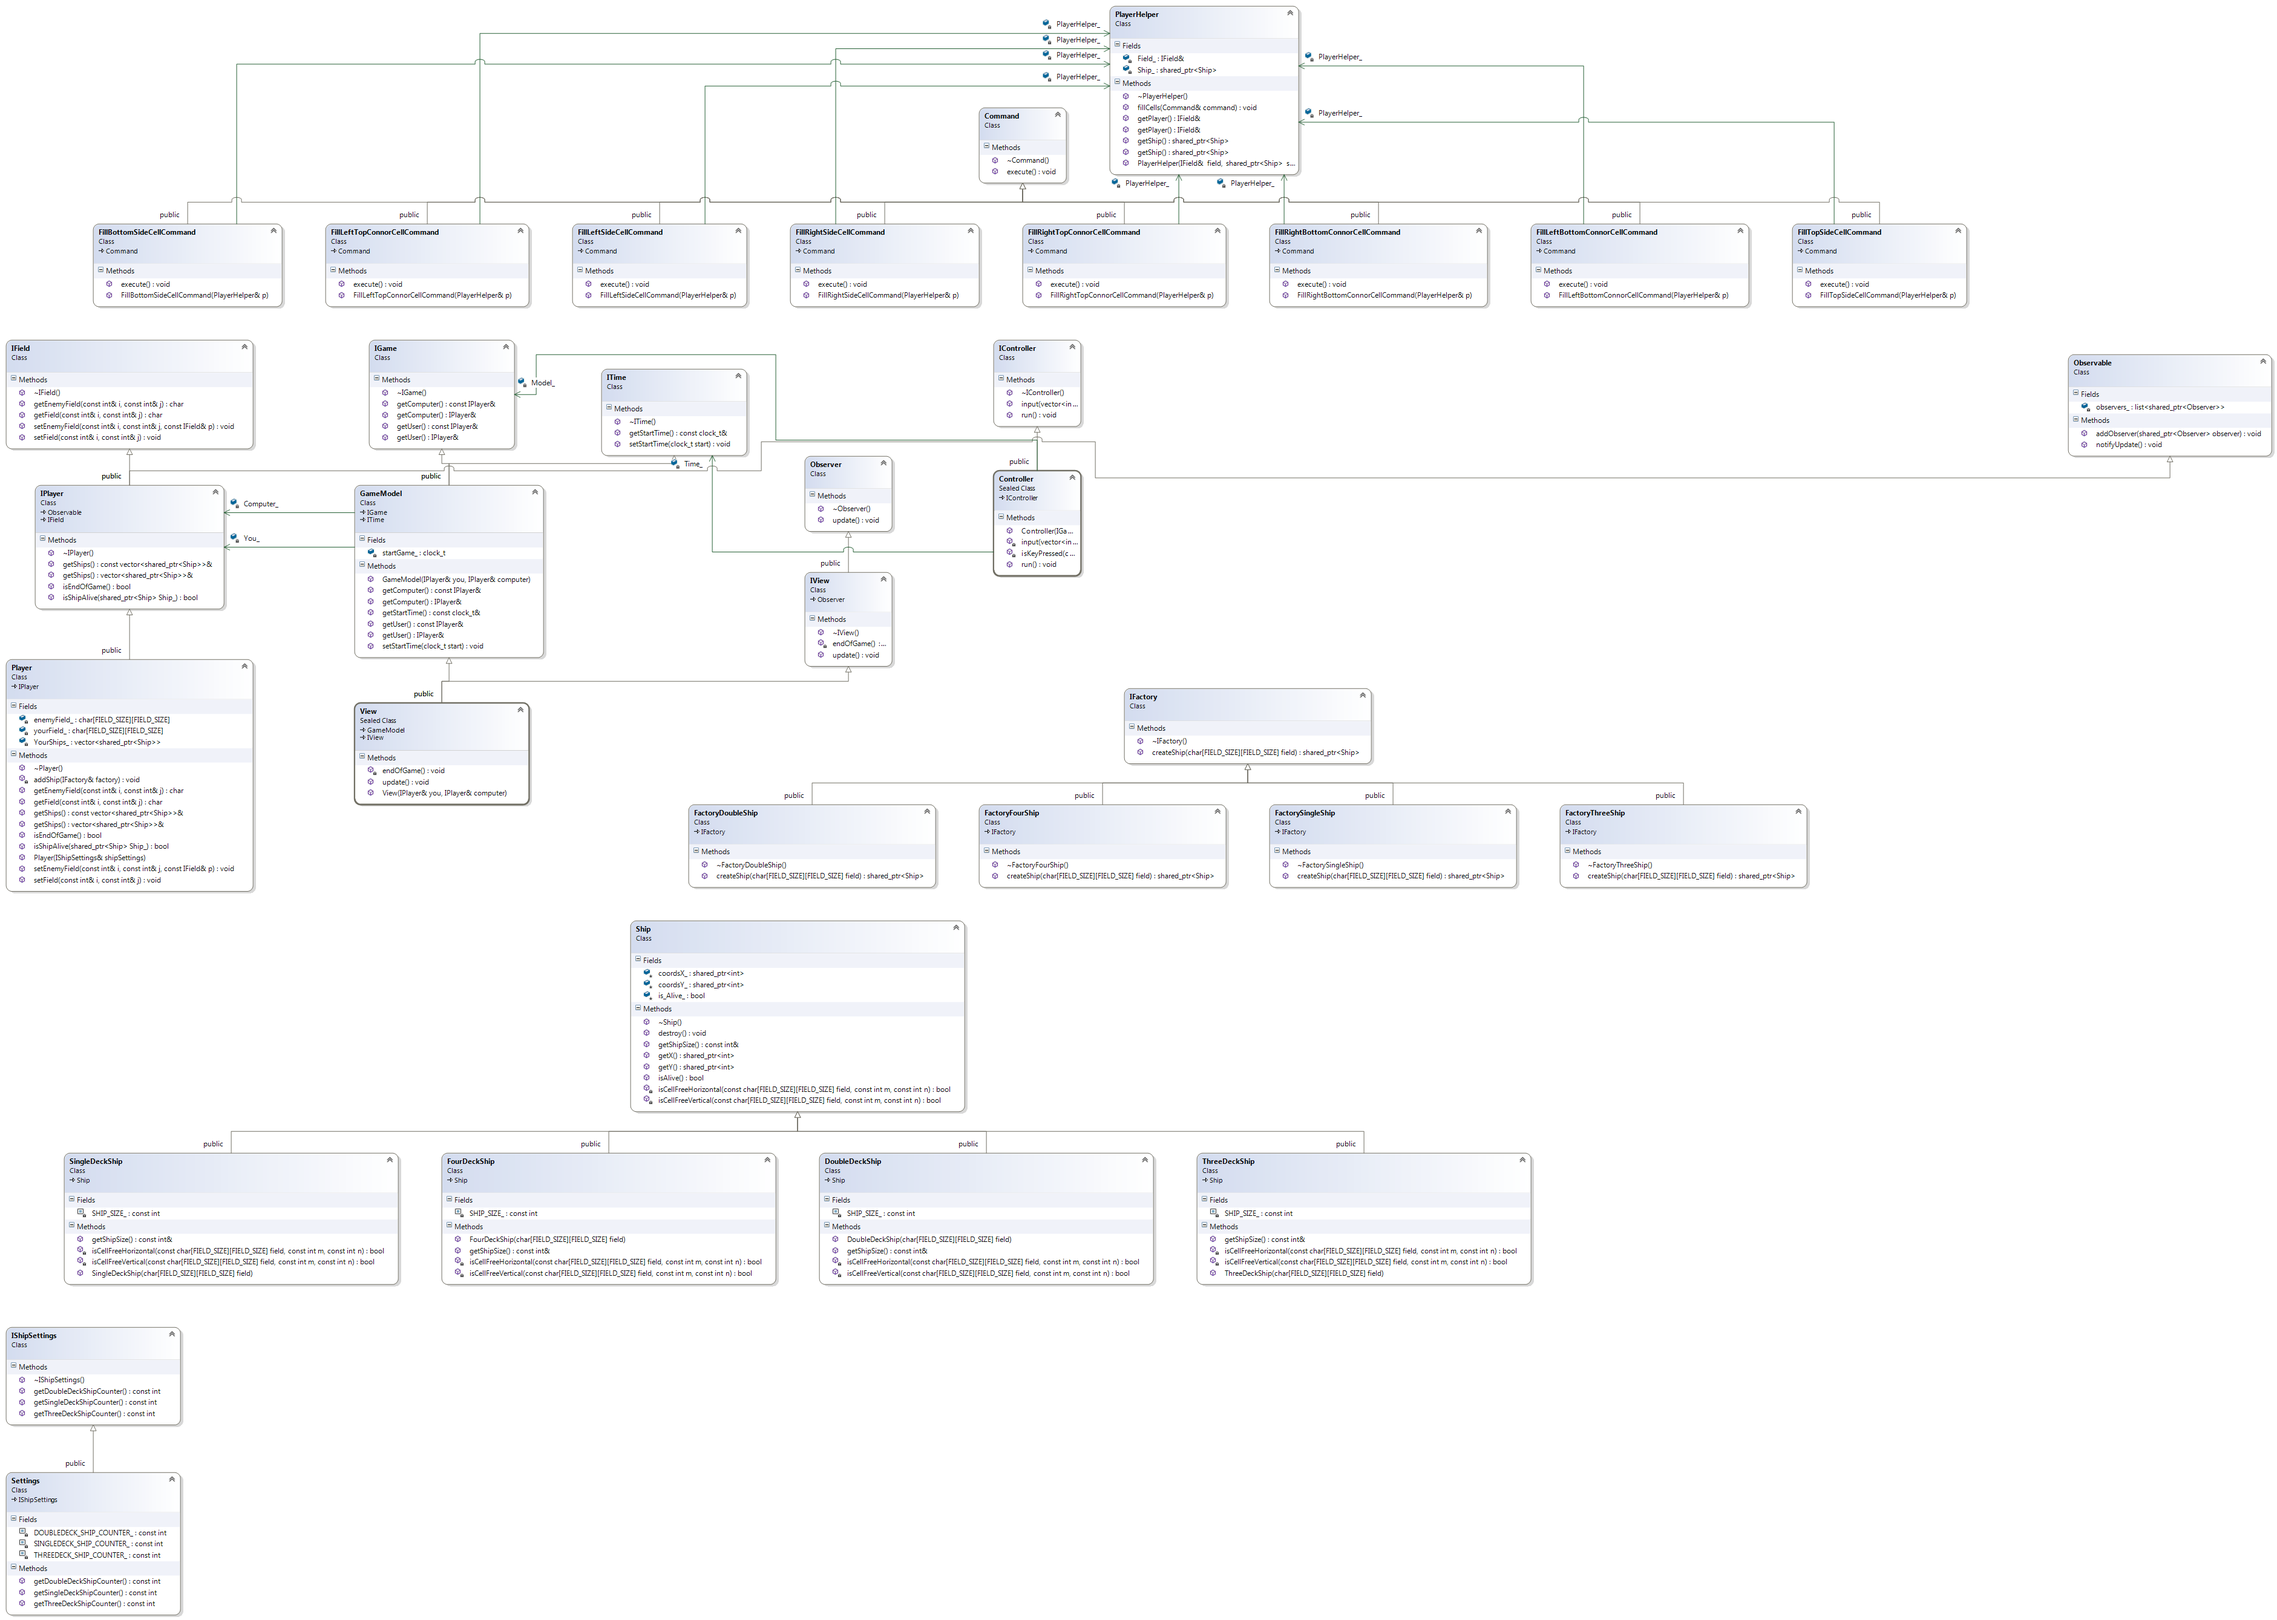
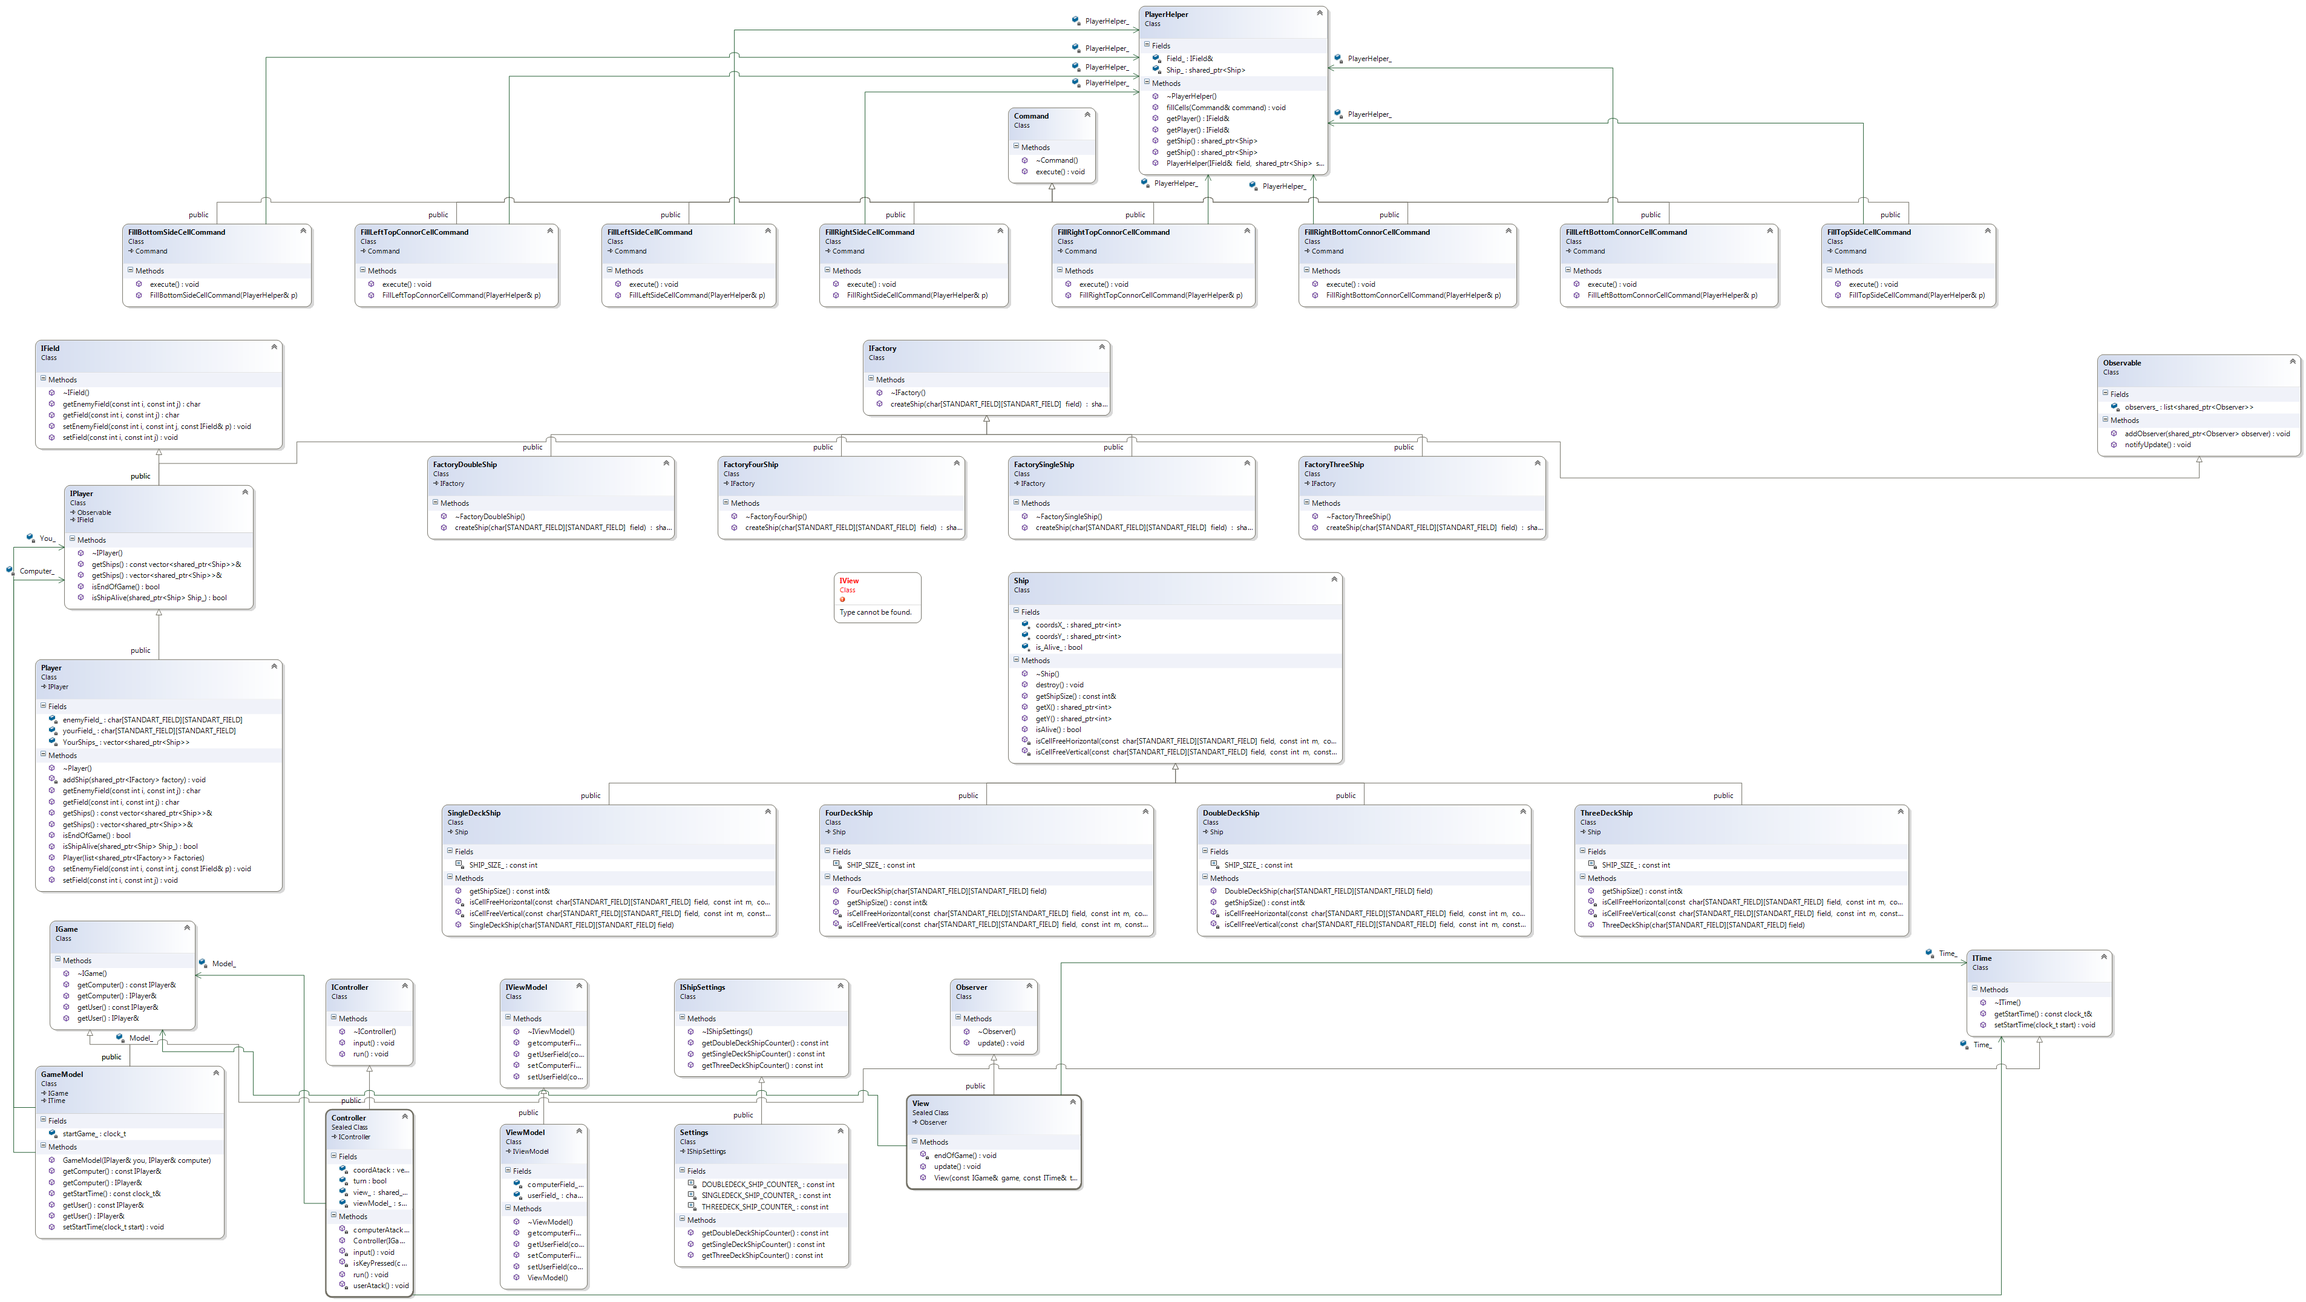
Diagram and Controller updated

diff --git a/BattleShip/ViewModel.h b/BattleShip/ViewModel.h
@@ -1,14 +1,16 @@
 #pragma once
 #include "Constants.h"
-class ViewModel
+#include "IViewModel.h"
+class ViewModel :
+	public IViewModel
 {
 public:
 	ViewModel();
 	virtual ~ViewModel();
-	void setUserField(const int i, const int j,const char symb);
-	void setComputerField(const int i, const int j, const char symb);
-	char getUserField(const int i, const int j);
-	char getcomputerField(const int i, const int j);
+	void setUserField(const int i, const int j,const char symb) override;
+	void setComputerField(const int i, const int j, const char symb) override;
+	char getUserField(const int i, const int j) override;
+	char getcomputerField(const int i, const int j) override;
 private:
 	char userField_[STANDART_FIELD][STANDART_FIELD];
 	char computerField_[STANDART_FIELD][STANDART_FIELD];

diff --git a/BattleShip/Controller.h b/BattleShip/Controller.h
@@ -3,13 +3,14 @@
 
 #include "GameModel.h"
 #include "IController.h"
+#include "IViewModel.h"
 class Controller final : 
 	public IController
 {
 public:
 	// main game loop
 	void run() override;
-	explicit Controller(IGame& gameModel, ITime& time);
+	explicit Controller(IGame& gameModel, ITime& time, shared_ptr<Observer> view, shared_ptr<IViewModel> viewModel);
 private:
 	//here user input coords 
 	void userAtack();
@@ -17,7 +18,8 @@ private:
 	void input() override;
 	bool isKeyPressed(const int& key) const;
 
-	shared_ptr<Observer> view ;
+	shared_ptr<IViewModel> viewModel_;
+	shared_ptr<Observer> view_ ;
 	IGame& Model_;
 	ITime& Time_;
 

diff --git a/BattleShip/main.cpp b/BattleShip/main.cpp
@@ -1,5 +1,6 @@
 #include "Controller.h"
 #include "View.h"
+#include "ViewModel.h"
 int main()
 {
 	try 
@@ -17,7 +18,9 @@ int main()
 		IPlayer& User = Player(Factories);
 		IPlayer& Computer = Player(Factories);
 		GameModel model(User, Computer);
-		shared_ptr<IController> controller = make_shared<Controller>(model, model);
+		shared_ptr<Observer> view = make_shared<View>(model, model);
+		shared_ptr<IViewModel> viewModel = make_shared<ViewModel>();
+		shared_ptr<IController> controller = make_shared<Controller>(model, model, view, viewModel);
 		controller->run();
 		return 0;
 	}

diff --git a/BattleShip/Controller.cpp b/BattleShip/Controller.cpp
@@ -149,9 +149,8 @@ void Controller::run()
 		}
 	}
 }
-Controller::Controller(IGame& model, ITime& time) : Model_(model), Time_(time)
+Controller::Controller(IGame& model, ITime& time, shared_ptr<Observer> view, shared_ptr<IViewModel> viewModel) : Model_(model), Time_(time), view_(view), viewModel_(viewModel)
 {
-	view = make_shared<View>(model,time);
-	model.getComputer().addObserver(view);
-	model.getUser().addObserver(view);
+	model.getComputer().addObserver(view_);
+	model.getUser().addObserver(view_);
 }

diff --git a/BattleShip/IViewModel.h b/BattleShip/IViewModel.h
@@ -1,0 +1,13 @@
+#pragma once
+class IViewModel
+{
+public:
+	virtual void setUserField(const int i, const int j, const char symb) = 0;
+	virtual void setComputerField(const int i, const int j, const char symb) = 0;
+	virtual char getUserField(const int i, const int j) = 0;
+	virtual char getcomputerField(const int i, const int j) = 0;
+	virtual ~IViewModel()
+	{
+	}
+};
+
